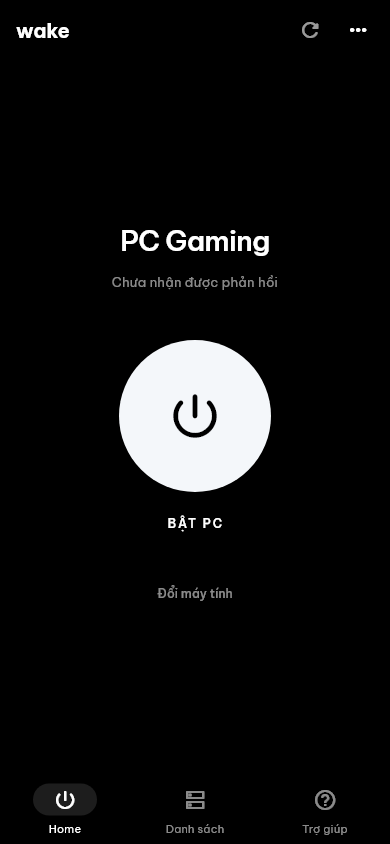
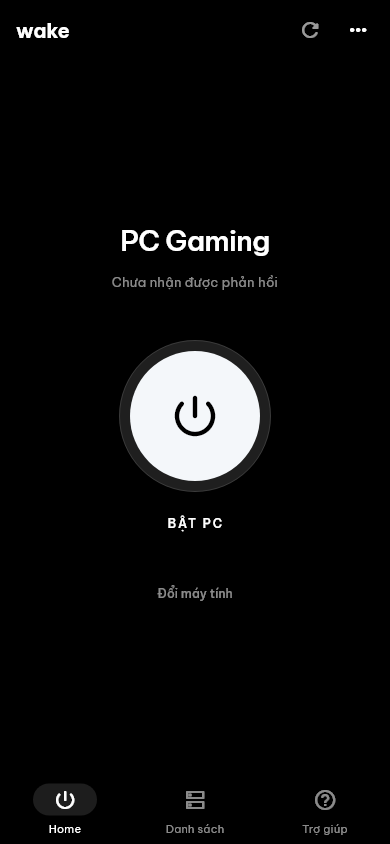
update

Changed region(s): [[0.3077, 0.4005, 0.7077, 0.5853], [0.4308, 0.4621, 0.5538, 0.5237]]

diff --git a/lib/screens.dart b/lib/screens.dart
@@ -34,6 +34,7 @@ class _HomePageState extends State<HomePage> with WidgetsBindingObserver {
   AgentClient get agent => widget.agentClient ?? const AgentClient();
   final Set<String> powerBusy = {};
   final Set<String> onlineIds = {};
+  final Set<String> manuallyOnline = {};
   Timer? statusTimer;
 
   Future<bool> pcReachable(Pc pc) async {
@@ -104,7 +105,10 @@ class _HomePageState extends State<HomePage> with WidgetsBindingObserver {
         );
         return;
       }
-      setState(() => statuses[pc.id] = 'Đã gửi lệnh $label');
+      setState(() {
+        manuallyOnline.remove(pc.id);
+        statuses[pc.id] = 'Đã gửi lệnh $label';
+      });
       ScaffoldMessenger.of(context)
         ..hideCurrentSnackBar()
         ..showSnackBar(
@@ -212,8 +216,9 @@ class _HomePageState extends State<HomePage> with WidgetsBindingObserver {
           if (!waking.contains(pc.id)) {
             statuses[pc.id] = online ? 'Đang hoạt động' : 'Chưa xác định';
             if (online) {
+              manuallyOnline.remove(pc.id);
               onlineIds.add(pc.id);
-            } else {
+            } else if (!manuallyOnline.contains(pc.id)) {
               onlineIds.remove(pc.id);
             }
           }
@@ -223,7 +228,7 @@ class _HomePageState extends State<HomePage> with WidgetsBindingObserver {
       if (mounted) {
         setState(() {
           lan = null;
-          onlineIds.clear();
+          onlineIds.removeWhere((id) => !manuallyOnline.contains(id));
           for (final pc in pcs) {
             statuses[pc.id] = 'Chưa xác định';
           }
@@ -275,6 +280,7 @@ class _HomePageState extends State<HomePage> with WidgetsBindingObserver {
     if (waking.contains(pc.id)) return;
     setState(() {
       waking.add(pc.id);
+      manuallyOnline.remove(pc.id);
       statuses[pc.id] = 'Đang gửi tín hiệu…';
     });
     try {
@@ -342,9 +348,40 @@ class _HomePageState extends State<HomePage> with WidgetsBindingObserver {
           'Chưa kiểm tra được kết nối. Kiểm tra Wi-Fi và quyền mạng cục bộ.';
     }
     if (!mounted || !pcs.any((p) => p.id == pc.id)) return;
+    var manual = false;
+    if (!online) {
+      final confirmed = await showDialog<bool>(
+        context: context,
+        barrierDismissible: false,
+        builder: (ctx) => PopScope(
+          canPop: false,
+          child: AlertDialog(
+            icon: const Icon(Icons.desktop_windows_rounded, color: accent),
+            title: const Text('PC đã bật chưa?'),
+            content: Text(
+              'App chưa nhận được phản hồi từ ${pc.name}. Hãy kiểm tra máy và xác nhận trạng thái.',
+            ),
+            actions: [
+              TextButton(
+                onPressed: () => Navigator.pop(ctx, false),
+                child: const Text('Chưa bật'),
+              ),
+              FilledButton(
+                onPressed: () => Navigator.pop(ctx, true),
+                child: const Text('Đã bật'),
+              ),
+            ],
+          ),
+        ),
+      );
+      if (!mounted || !pcs.any((p) => p.id == pc.id)) return;
+      manual = confirmed == true;
+      online = manual;
+    }
     setState(() {
       waking.remove(pc.id);
       if (online) {
+        if (manual) manuallyOnline.add(pc.id);
         onlineIds.add(pc.id);
       } else {
         onlineIds.remove(pc.id);
@@ -358,12 +395,18 @@ class _HomePageState extends State<HomePage> with WidgetsBindingObserver {
     });
     notifyWake(
       online
-          ? '${pc.name} đã khởi động thành công — PC đang phản hồi.'
+          ? manual
+                ? 'Đã cập nhật: ${pc.name} đã bật theo xác nhận của bạn.'
+                : '${pc.name} đã khởi động thành công — PC đang phản hồi.'
           : 'Chưa xác nhận được ${pc.name} đã bật. Xem hướng dẫn kiểm tra.',
     );
     try {
       await widget.store.log(
-        '${online ? 'PC đã phản hồi' : 'Chưa xác nhận khởi động'} · ${pc.name}',
+        '${manual
+            ? 'Người dùng xác nhận đã bật'
+            : online
+            ? 'PC đã phản hồi'
+            : 'Chưa xác nhận khởi động'} · ${pc.name}',
       );
     } catch (_) {
       /* Keep the observed result. */
@@ -795,6 +838,7 @@ class _HomePageState extends State<HomePage> with WidgetsBindingObserver {
     final busy =
         pc != null && (waking.contains(pc.id) || powerBusy.contains(pc.id));
     return LayoutBuilder(
+      key: ValueKey('home-${pc?.id}-$online'),
       builder: (context, constraints) => SingleChildScrollView(
         key: ValueKey('control-${pc?.id}-$online'),
         child: ConstrainedBox(
@@ -851,7 +895,9 @@ class _HomePageState extends State<HomePage> with WidgetsBindingObserver {
                   const SizedBox(height: 10),
                   Text(
                     online
-                        ? 'Đang hoạt động'
+                        ? manuallyOnline.contains(pc.id)
+                              ? 'Đã bật · bạn đã xác nhận'
+                              : 'Đang hoạt động'
                         : waking.contains(pc.id)
                         ? (statuses[pc.id] ?? 'Đang gửi tín hiệu…')
                         : refreshing
@@ -862,7 +908,25 @@ class _HomePageState extends State<HomePage> with WidgetsBindingObserver {
                   ),
                   const SizedBox(height: 48),
                   if (!online) ...[
-                    SizedBox(
+                    AnimatedContainer(
+                      duration: const Duration(milliseconds: 450),
+                      curve: Curves.easeOutCubic,
+                      padding: const EdgeInsets.all(10),
+                      decoration: BoxDecoration(
+                        shape: BoxShape.circle,
+                        border: Border.all(
+                          color: busy ? accent : Colors.white12,
+                        ),
+                        boxShadow: [
+                          BoxShadow(
+                            color: (busy ? accent : Colors.white).withValues(
+                              alpha: .12,
+                            ),
+                            blurRadius: busy ? 56 : 32,
+                            spreadRadius: busy ? 8 : 0,
+                          ),
+                        ],
+                      ),
                       width: 152,
                       height: 152,
                       child: FilledButton(
@@ -875,11 +939,15 @@ class _HomePageState extends State<HomePage> with WidgetsBindingObserver {
                           disabledBackgroundColor: const Color(0xFF202020),
                           disabledForegroundColor: Colors.white38,
                         ),
-                        child: Icon(
-                          busy
-                              ? Icons.hourglass_top_rounded
-                              : Icons.power_settings_new_rounded,
-                          size: 58,
+                        child: AnimatedSwitcher(
+                          duration: const Duration(milliseconds: 350),
+                          child: Icon(
+                            busy
+                                ? Icons.wifi_tethering_rounded
+                                : Icons.power_settings_new_rounded,
+                            key: ValueKey(busy),
+                            size: 54,
+                          ),
                         ),
                       ),
                     ),

diff --git a/test/home_wake_test.dart b/test/home_wake_test.dart
@@ -20,8 +20,9 @@ class WakeNetwork extends NetworkService {
 }
 
 void main() {
-  for (final online in [true, false]) {
-    testWidgets('Home sends immediately then checks at 10s: online=$online', (
+  for (final outcome in ['online', 'manual', 'help']) {
+    final online = outcome == 'online';
+    testWidgets('Home sends immediately then checks at 10s: $outcome', (
       tester,
     ) async {
       tester.view.physicalSize = const Size(430, 932);
@@ -68,6 +69,22 @@ void main() {
         expect(find.textContaining('đã khởi động thành công'), findsOneWidget);
         expect(find.text('Studio PC'), findsOneWidget);
       } else {
+        expect(find.text('PC đã bật chưa?'), findsOneWidget);
+        expect(find.text('Luôn có lời giải'), findsNothing);
+        await tester.tap(
+          find.text(outcome == 'manual' ? 'Đã bật' : 'Chưa bật'),
+        );
+        await tester.pumpAndSettle();
+        if (outcome == 'manual') {
+          expect(find.text('Sleep'), findsOneWidget);
+          expect(find.text('Shutdown'), findsOneWidget);
+          expect(find.text('Đã bật · bạn đã xác nhận'), findsOneWidget);
+          await tester.pump(const Duration(seconds: 16));
+          await tester.pumpAndSettle();
+          expect(find.text('Sleep'), findsOneWidget);
+          expect(find.text('PC đã bật chưa?'), findsNothing);
+          return;
+        }
         expect(find.text('Luôn có lời giải'), findsOneWidget);
         expect(
           find.textContaining(

diff --git a/README.md b/README.md
@@ -98,5 +98,6 @@ Agent có tùy chọn tự chạy khi đăng nhập Windows. Bản này không p
 - Chưa có phản hồi: nền đen, nút bật tròn. Không phản hồi không đồng nghĩa chắc chắn PC đã tắt.
 - Đã xác nhận PC hoạt động: nền sáng, hai nút Sleep và Shutdown. Nếu chưa ghép Agent, các nút dẫn tới ghép nối.
 - App kiểm tra trạng thái mỗi 15 giây khi ở foreground và khi quay lại app. Sau lệnh Wake vẫn kiểm tra sau khoảng 10 giây.
+- Nếu kiểm tra sau Wake chưa nhận phản hồi, popup hỏi **PC đã bật chưa?**: **Đã bật** chuyển Home sang nền sáng; **Chưa bật** mở Trợ giúp. Xác nhận thủ công có nhãn riêng, giữ trong phiên app cho đến khi có phản hồi thật hoặc Agent nhận lệnh Sleep/Shutdown; không bị xóa bởi lần kiểm tra không phản hồi tiếp theo.
 - Tab Hoạt động được thay bằng Danh sách; lịch sử truy cập từ menu.
 - Ảnh `docs/home-dark.png`, `docs/home-light.png`, `docs/device-list.png` được render từ widget thật với trạng thái giả lập để kiểm tra bố cục, không phải bằng chứng PC vật lý bật/tắt.
